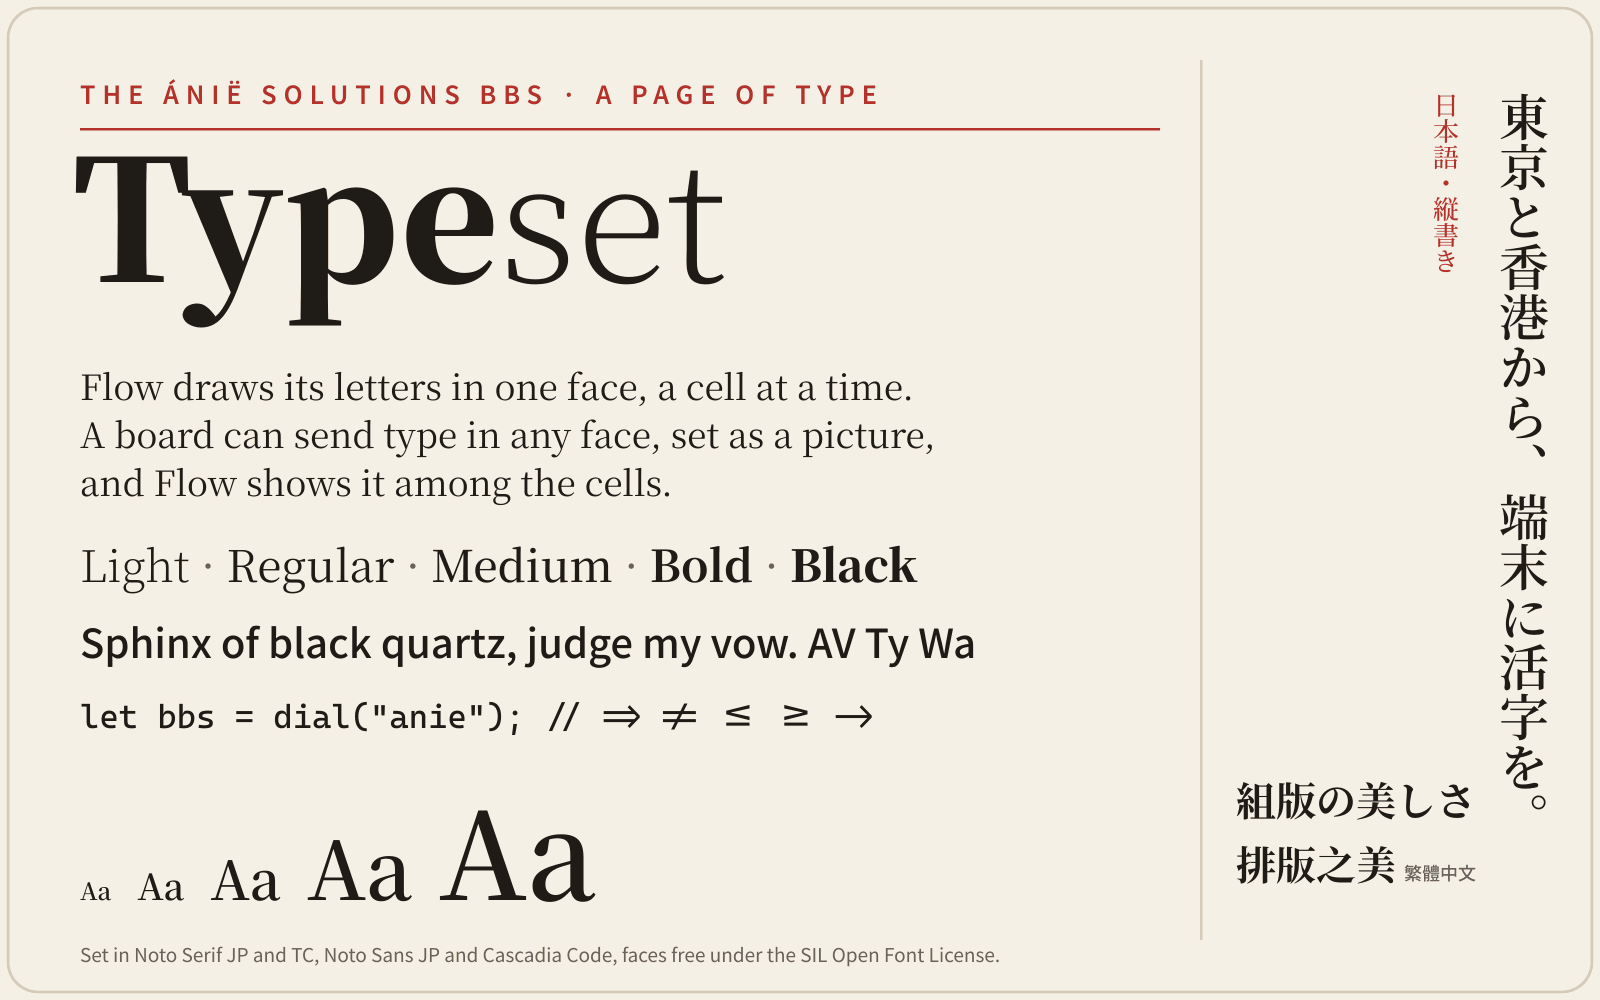
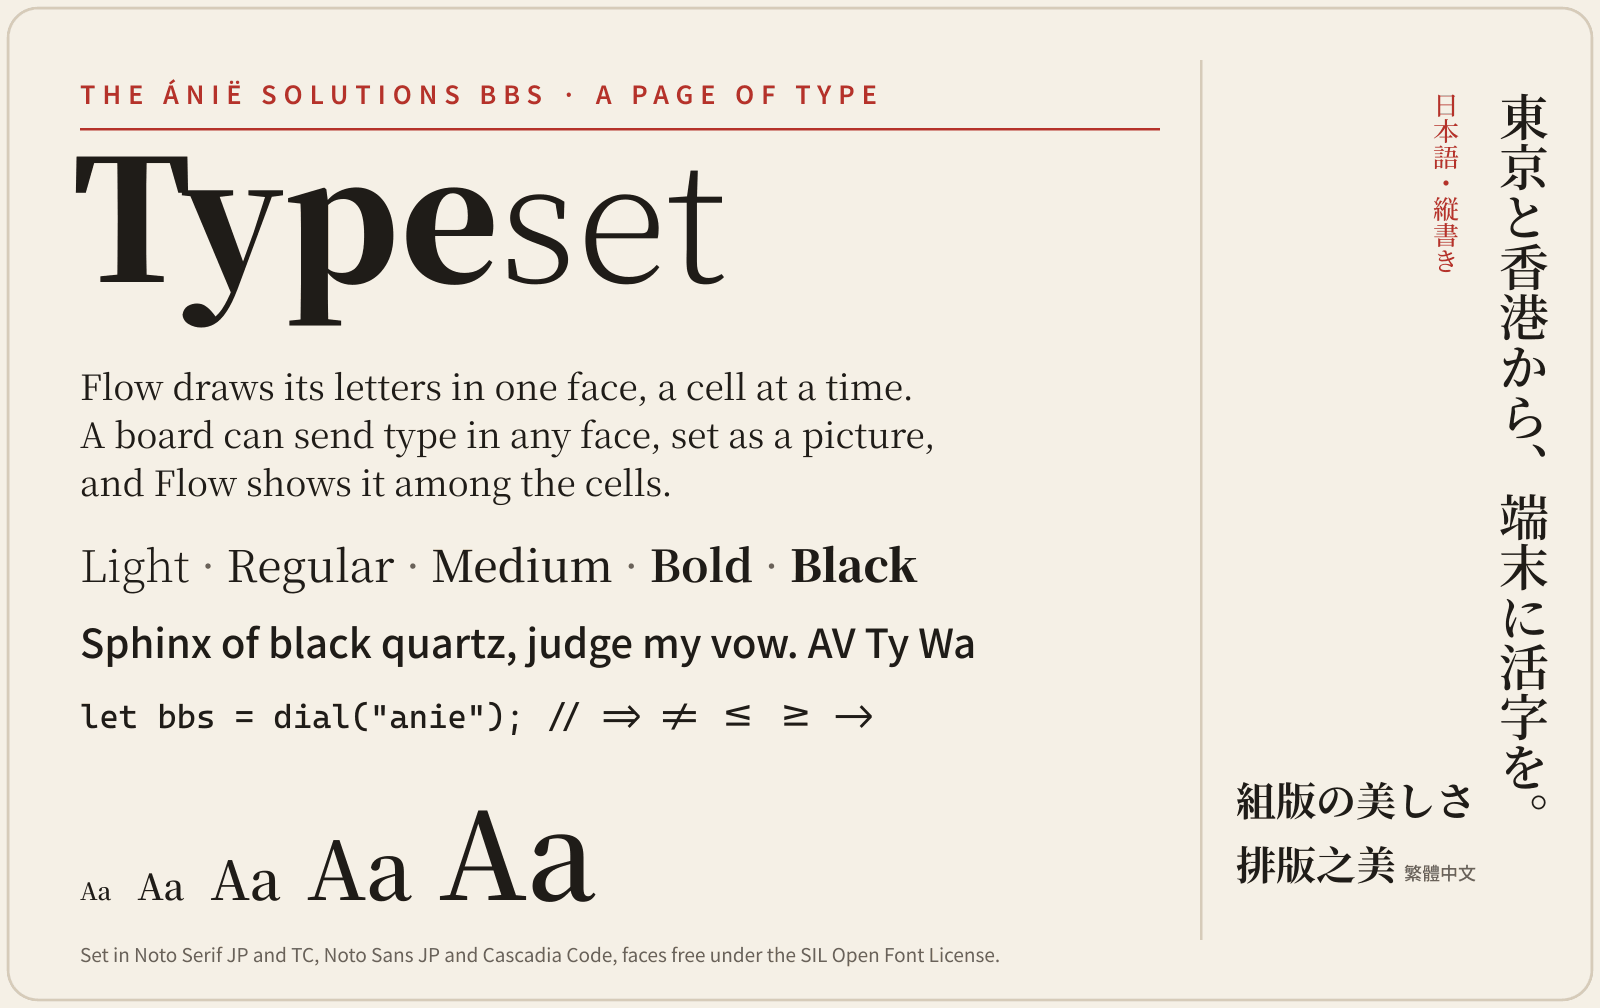
Size the board's pictures to whole pixels a row
Flow on Windows (through dial) draws a picture a row of cells at a time,
each row a strip of its pixels fitted to its row, so rows of unequal
pixels come out a little apart: the type page, 1000 pixels over 18 rows,
was drawn with its rows stepped. It's 1008 pixels now, 56 a row; the
member menu's logo is 5 rows (80 pixels each), and the gallery's picture
says its 8 rows. A test holds every picture on the screens to it.

diff --git a/boards/anie/src/lib.rs b/boards/anie/src/lib.rs
@@ -211,4 +211,30 @@ mod tests {
         assert_eq!((g.failures(a), g.failures(b)), (3, 0));
         assert_eq!((g.applications(a), g.applications(b)), (0, 1));
     }
+
+    /// Flow on Windows (through dial) draws a picture a row of cells at a
+    /// time, each row a strip of its pixels fitted to its row, so rows of
+    /// unequal pixels are drawn a little apart: each picture says its rows,
+    /// and its height is a whole number of pixels to each.
+    #[test]
+    fn every_picture_on_the_screens_says_its_rows_and_divides_into_them() {
+        let folder = std::path::Path::new(env!("CARGO_MANIFEST_DIR")).join("screens");
+        let mut seen = 0;
+        for entry in std::fs::read_dir(&folder).unwrap() {
+            let path = entry.unwrap().path();
+            if path.extension().is_none_or(|e| e != "txt") {
+                continue;
+            }
+            for line in std::fs::read_to_string(&path).unwrap().lines() {
+                let Some(at) = line.find(".png)") else { continue };
+                let file = &line[line[..at].rfind("](").unwrap() + 2..at + 4];
+                let rows: u32 = line[at..].split("{rows ").nth(1).and_then(|r| r.split('}').next()).and_then(|r| r.trim().parse().ok()).unwrap_or_else(|| panic!("{}: {file} says no rows", path.display()));
+                let png = std::fs::read(folder.join(file)).unwrap();
+                let height = u32::from_be_bytes(png[20..24].try_into().unwrap());
+                assert_eq!(height % rows, 0, "{}: {file} is {height} pixels over {rows} rows", path.display());
+                seen += 1;
+            }
+        }
+        assert!(seen >= 4, "the welcome's, the main menu's, the gallery's and the type page's: {seen}");
+    }
 }
